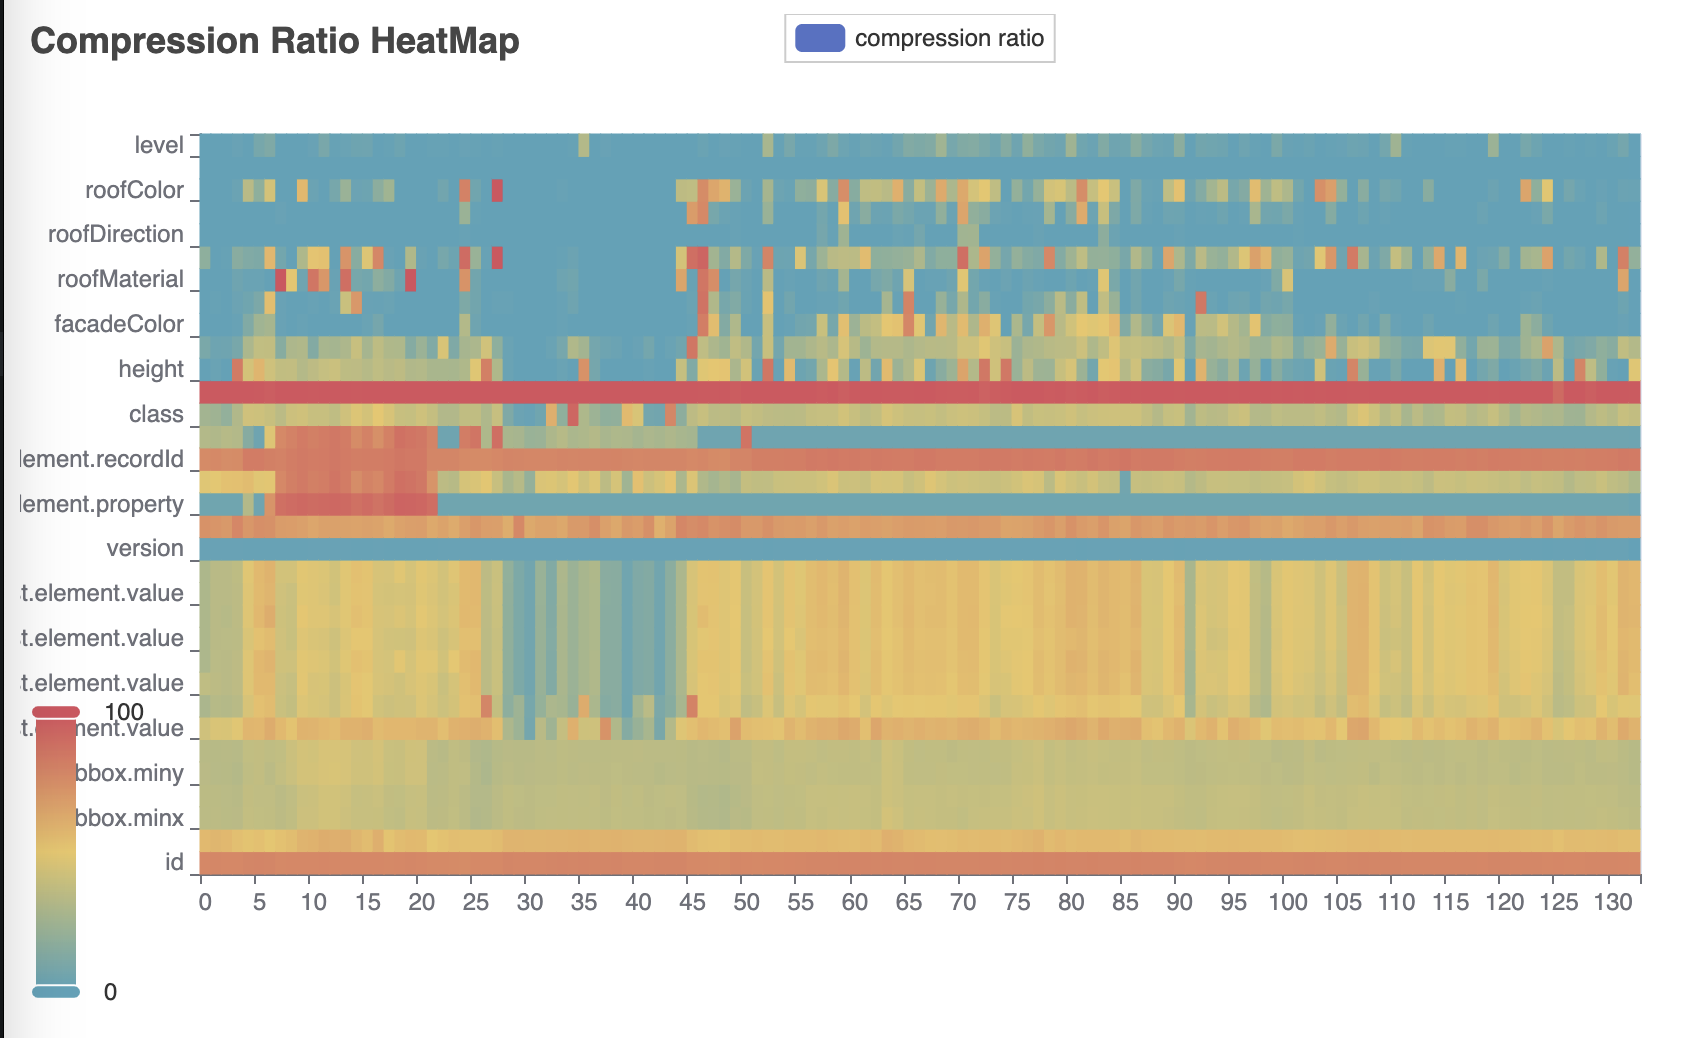
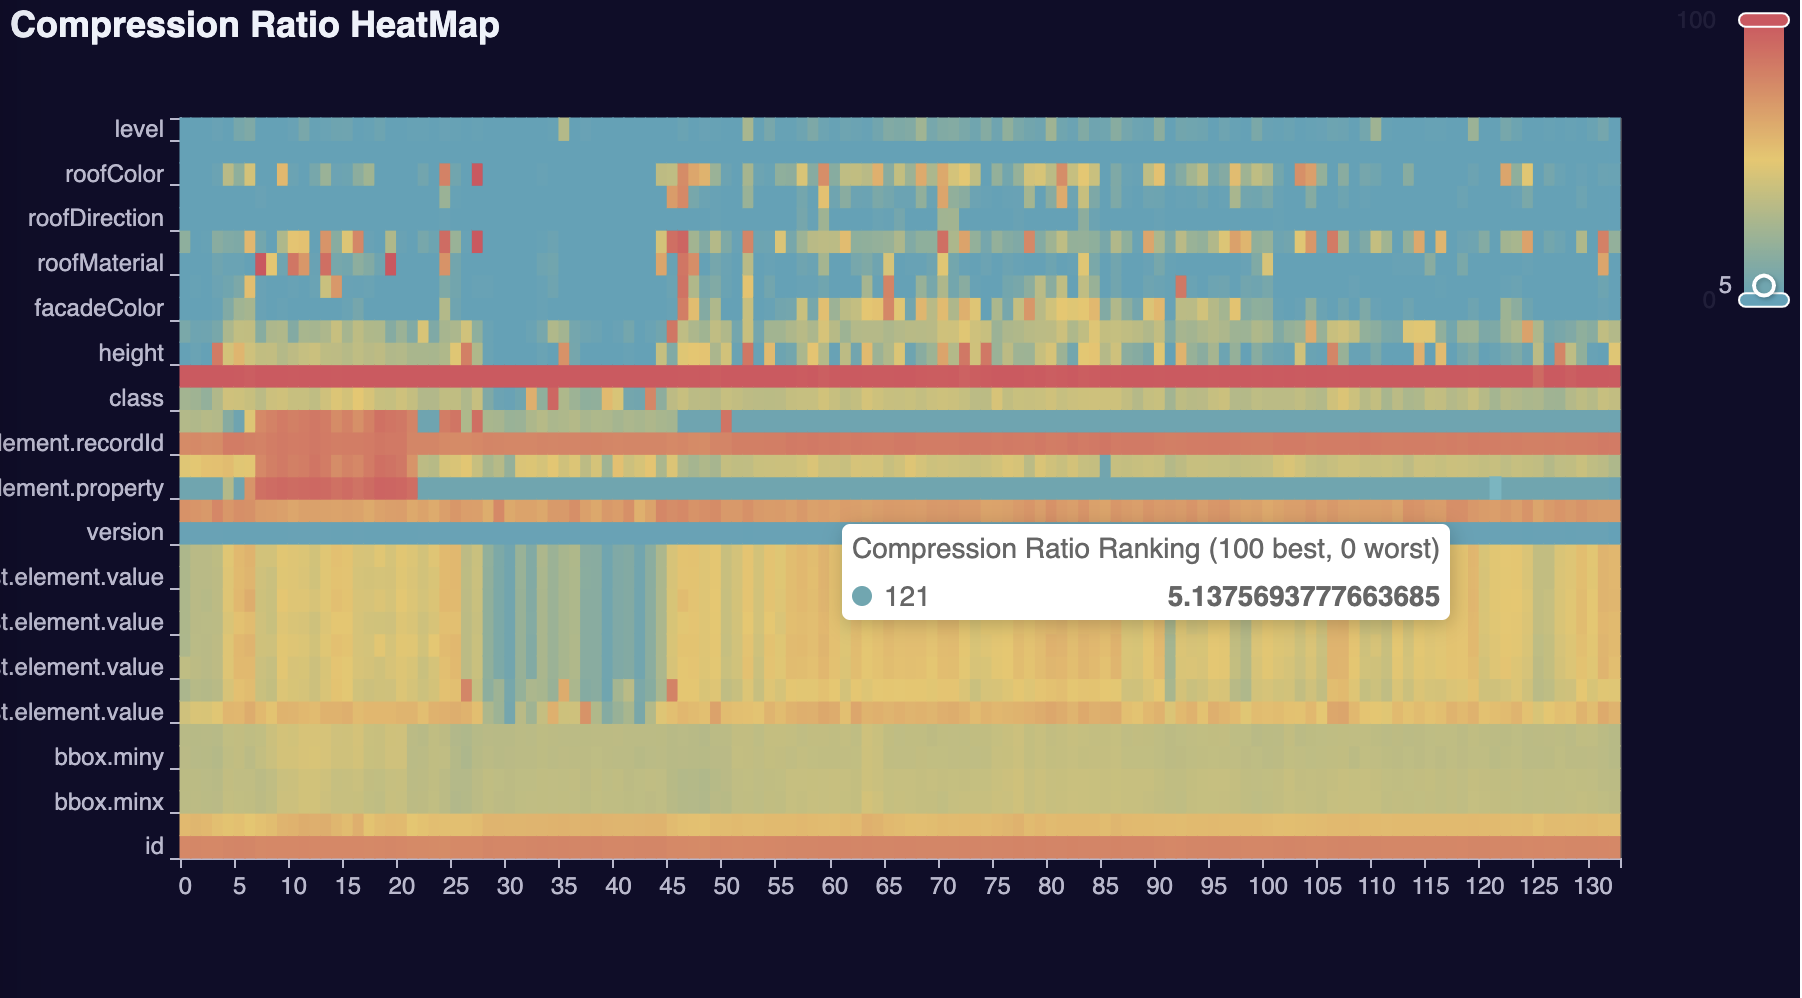
Working on the heatmap

diff --git a/main.py b/main.py
@@ -121,7 +121,7 @@ def render_sunburst(source:list,
                     for country_name in inventories[continent_name].keys()])
             for continent_name in inventories.keys()]
 
-    temp_ = NamedTemporaryFile(suffix='.html')
+    temp_ = NamedTemporaryFile(suffix='.html', delete=False)
 
     Sunburst(init_opts=opts.InitOpts(width='1000px',
                                      height='1000px'))\
@@ -314,20 +314,23 @@ def ratios_by_column(pq_file:str):
     values = [[rg, col, 100 - (100 * ((val - min_val)/(max_val - min_val)))]
               for rg, col, val in values]
 
-    temp_ = NamedTemporaryFile(suffix='.html')
+    temp_ = NamedTemporaryFile(suffix='.html', delete=False)
+
+    from pyecharts.globals import ThemeType
 
     _ = (
-        HeatMap()
+        HeatMap(init_opts=opts.InitOpts(theme=ThemeType.DARK))
         .add_xaxis([rg for rg in range(0, pf.metadata.num_row_groups)])
         .add_yaxis(
-            "compression ratio",
+            "Compression Ratio Ranking (100 best, 0 worst)",
             cols,
             values,
-            label_opts=opts.LabelOpts(is_show=False, position="inside"),
+            label_opts=opts.LabelOpts(is_show=False, padding=100),
         )
         .set_global_opts(
+            legend_opts=opts.LegendOpts(is_show=False),
             title_opts=opts.TitleOpts(title="Compression Ratio HeatMap"),
-            visualmap_opts=opts.VisualMapOpts(),
+            visualmap_opts=opts.VisualMapOpts(pos_right='0%', pos_top='0%'),
         )
         .set_dark_mode()
         .render(temp_.name)
